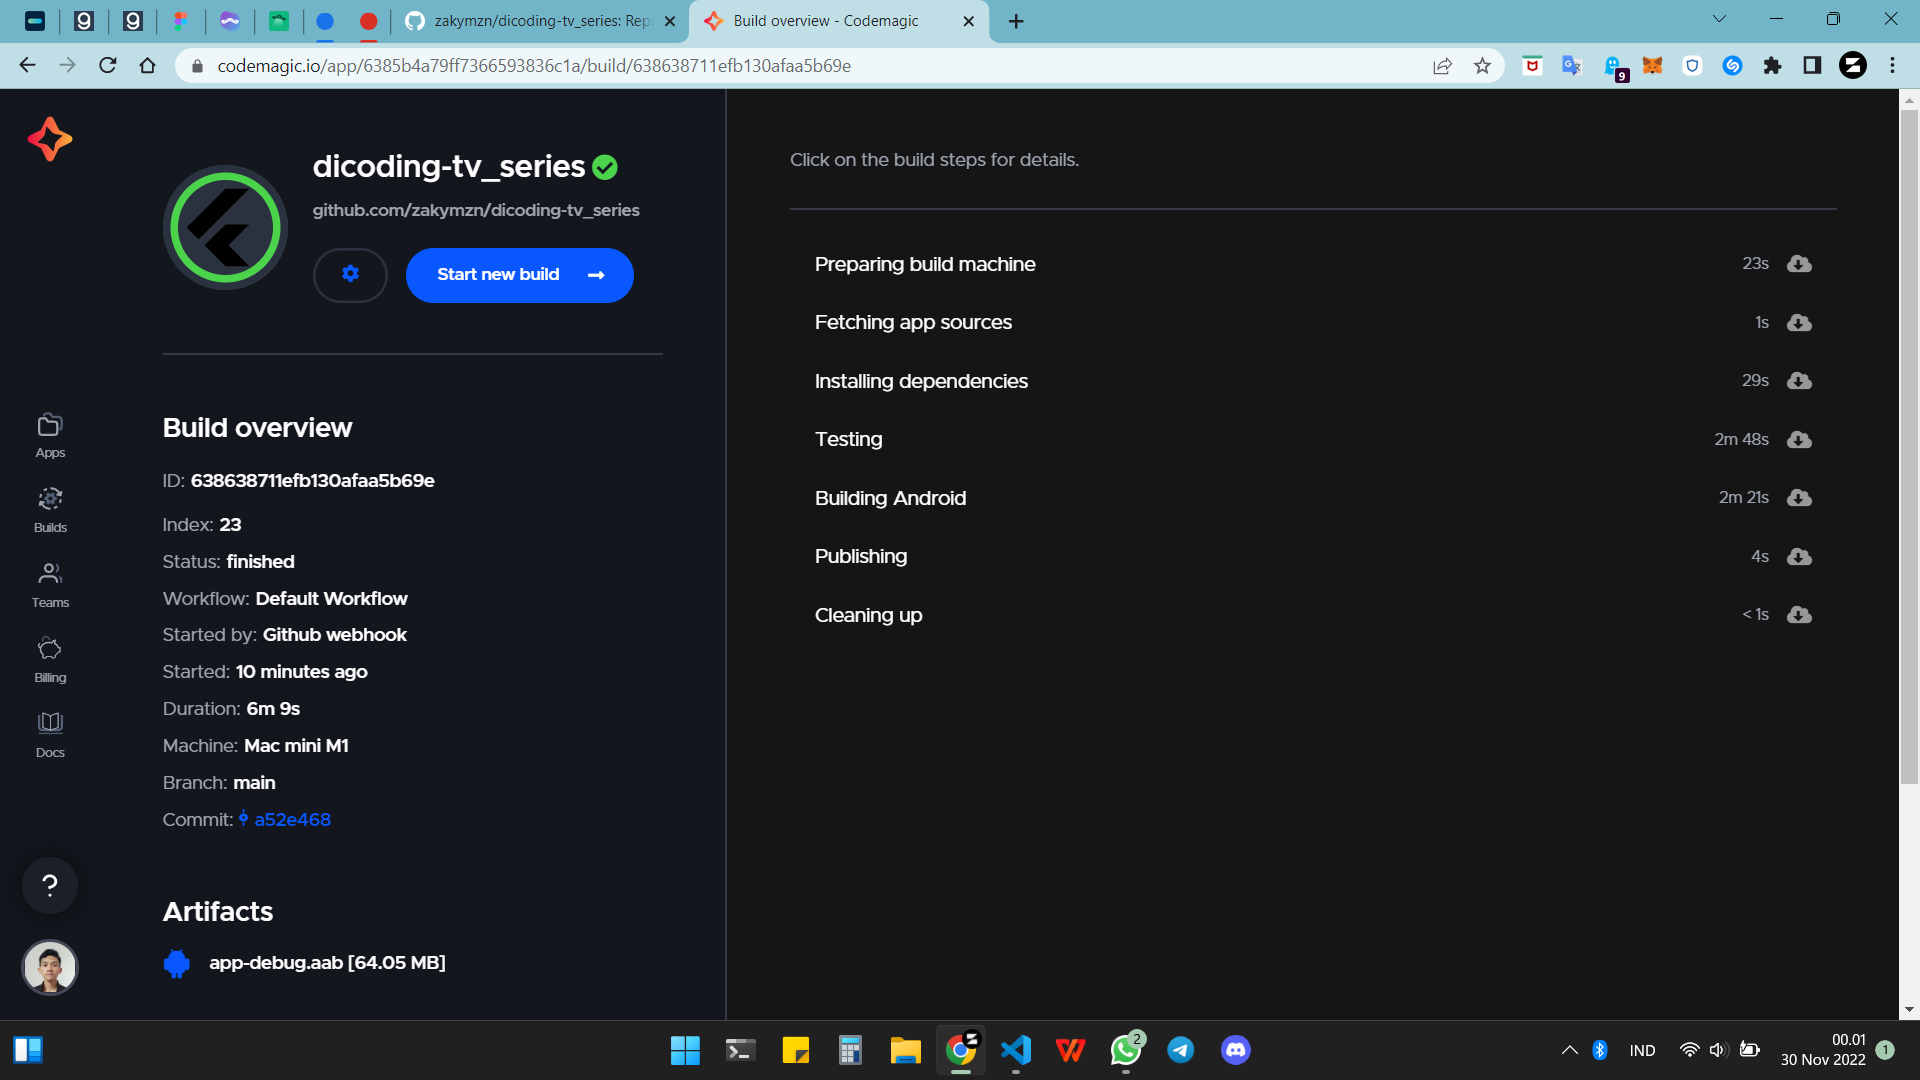
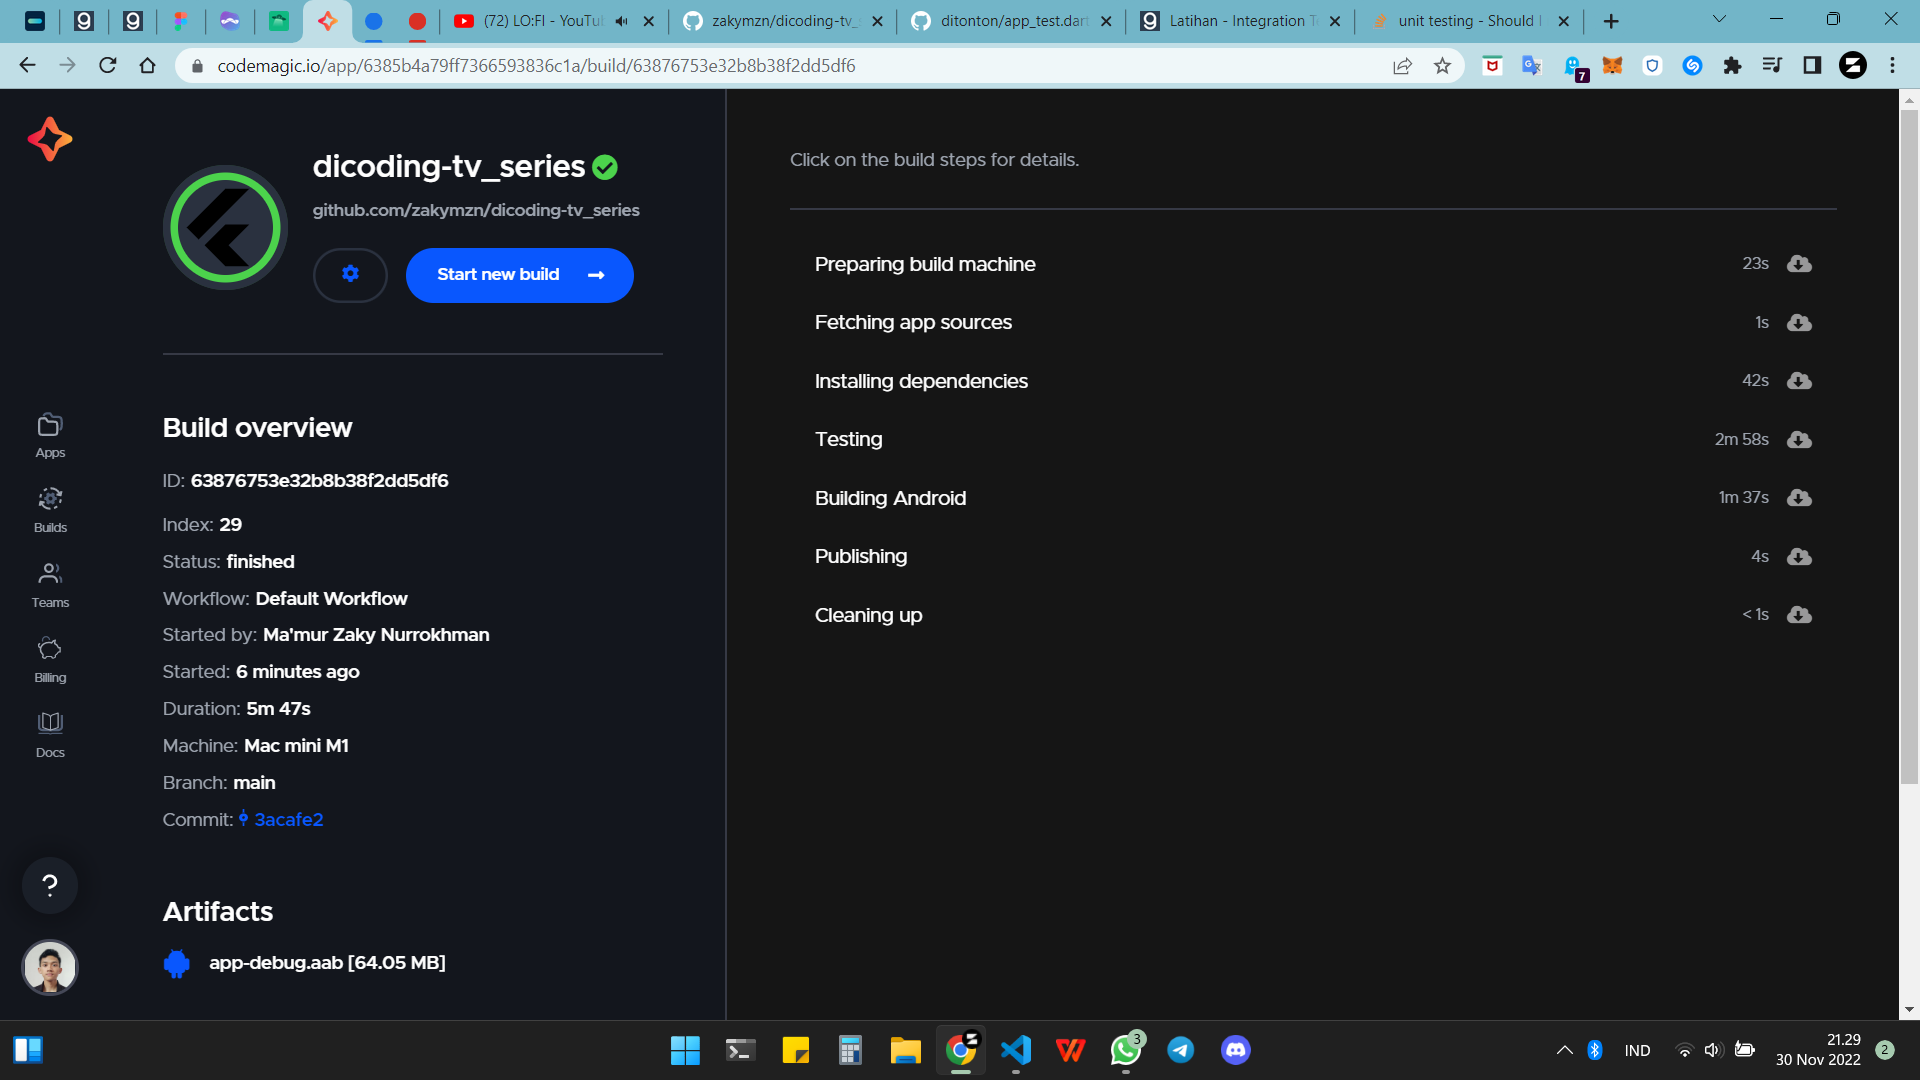
Menyempurnakan integration test dan memperbarui screenshot testing codemagic

diff --git a/integration_test/app_test.dart b/integration_test/app_test.dart
@@ -1,6 +1,11 @@
 import 'package:flutter/material.dart';
 import 'package:flutter_test/flutter_test.dart';
 import 'package:integration_test/integration_test.dart';
+import 'package:movies/movies.dart';
+import 'package:tv_series/tv_series.dart';
+import 'package:search/search.dart';
+import 'package:about/about.dart';
+import 'package:core/core.dart';
 import 'package:ditonton/main.dart' as app;
 
 void main() {
@@ -10,31 +15,31 @@ void main() {
       final binding = IntegrationTestWidgetsFlutterBinding.ensureInitialized();
 
       testWidgets(
-        'movies test',
+        'start',
         (widgetTester) async {
           await binding.traceAction(() async {
-            int movieIndex = 10;
-            int recommendationIndex = 10;
-            final addWatchlistButtonIcon = find.byIcon(Icons.add);
-            final checkWatchlistButtonIcon = find.byIcon(Icons.check);
-            final backButton = find.byIcon(Icons.arrow_back);
-            final movieFinder = find.byKey(Key('movie_$movieIndex'));
-            final recommendationFinder =
-                find.byKey(ValueKey('recommendation_$recommendationIndex'));
-            final scrollFinder = find.byType(Scrollable);
-            final listFinder = find.byType(ListView);
+            int movieIndex = 1;
+            int recommendationIndex = 1;
+            int seasonIndex = 0;
+            int episodeIndex = 0;
+            int tvIndex = 1;
 
             app.main();
             await widgetTester.pumpAndSettle();
 
             await widgetTester.tap(find.byKey(Key('search_movie')));
             await widgetTester.pumpAndSettle();
+            expect(find.byType(MovieSearchPage), findsOneWidget);
             expect(find.byType(TextField), findsOneWidget);
 
-            await widgetTester.enterText(find.byType(TextField), "spiderman");
+            await widgetTester.enterText(find.byType(TextField), "naruto");
             await widgetTester.testTextInput
                 .receiveAction(TextInputAction.done);
             await widgetTester.pumpAndSettle();
+
+            final movieFinder = find.byKey(Key('movie_$movieIndex'));
+
+            final scrollFinder = find.byType(Scrollable);
 
             await widgetTester.scrollUntilVisible(movieFinder, 500,
                 scrollable: scrollFinder.last);
@@ -42,15 +47,20 @@ void main() {
             await widgetTester.tap(movieFinder);
             await widgetTester.pumpAndSettle();
 
-            expect(backButton, findsOneWidget);
-            await widgetTester.tap(backButton);
-            await widgetTester.pumpAndSettle();
+            final backButton = find.byIcon(Icons.arrow_back);
 
             expect(backButton, findsOneWidget);
             await widgetTester.tap(backButton);
             await widgetTester.pumpAndSettle();
 
-            await widgetTester.tap(find.byKey(Key('now_playing_movies')));
+            expect(backButton, findsOneWidget);
+            await widgetTester.tap(backButton);
+            await widgetTester.pumpAndSettle();
+
+            await widgetTester.scrollUntilVisible(
+                find.byKey(Key('top_rated_movies')), 500,
+                scrollable: scrollFinder.first);
+            await widgetTester.tap(find.byKey(Key('top_rated_movies')));
             await widgetTester.pumpAndSettle();
 
             await widgetTester.scrollUntilVisible(movieFinder, 500,
@@ -58,6 +68,108 @@ void main() {
             expect(movieFinder, findsOneWidget);
             await widgetTester.tap(movieFinder);
             await widgetTester.pumpAndSettle();
+
+            final addWatchlistButtonIcon = find.byIcon(Icons.add);
+
+            expect(addWatchlistButtonIcon, findsOneWidget);
+            await widgetTester.tap(addWatchlistButtonIcon);
+            await widgetTester.pump(Duration(seconds: 1));
+            expect(find.byType(SnackBar), findsOneWidget);
+            expect(find.text('Added to Watchlist'), findsOneWidget);
+
+            await widgetTester.pump(Duration(seconds: 5));
+
+            final checkWatchlistButtonIcon = find.byIcon(Icons.check);
+
+            expect(checkWatchlistButtonIcon, findsOneWidget);
+            await widgetTester.tap(checkWatchlistButtonIcon);
+            await widgetTester.pump(Duration(seconds: 1));
+            expect(find.byType(SnackBar), findsOneWidget);
+            expect(find.text('Removed from Watchlist'), findsOneWidget);
+
+            final listFinder = find.byType(ListView);
+
+            await widgetTester.scrollUntilVisible(listFinder, 500,
+                scrollable: scrollFinder.first);
+            expect(listFinder, findsOneWidget);
+
+            final recommendationFinder =
+                find.byKey(ValueKey('recommendation_$recommendationIndex'));
+
+            await widgetTester.scrollUntilVisible(recommendationFinder, 500,
+                scrollable: scrollFinder.last);
+            expect(recommendationFinder, findsOneWidget);
+            await widgetTester.tap(recommendationFinder);
+            await widgetTester.pumpAndSettle();
+
+            expect(backButton, findsOneWidget);
+            await widgetTester.tap(backButton);
+            await widgetTester.pumpAndSettle();
+
+            expect(backButton, findsOneWidget);
+            await widgetTester.tap(backButton);
+            await widgetTester.pumpAndSettle();
+
+            expect(find.byType(HomeMoviePage), findsOneWidget);
+
+            final ScaffoldState movieScaffoldState =
+                widgetTester.firstState(find.byType(Scaffold));
+
+            movieScaffoldState.openDrawer();
+            await widgetTester.pumpAndSettle();
+
+            final movieIconFinder = find.byIcon(Icons.movie);
+            final tvIconFinder = find.byIcon(Icons.tv);
+
+            expect(movieIconFinder, findsOneWidget);
+            expect(tvIconFinder, findsOneWidget);
+
+            await widgetTester.tap(tvIconFinder);
+            await widgetTester.pumpAndSettle();
+
+            expect(find.byType(HomeTvPage), findsOneWidget);
+
+            await widgetTester.tap(find.byKey(ValueKey('search_tv')));
+            await widgetTester.pumpAndSettle();
+            expect(find.byType(TvSearchPage), findsOneWidget);
+            expect(find.byType(TextField), findsOneWidget);
+
+            await widgetTester.enterText(find.byType(TextField), "spiderman");
+            await widgetTester.testTextInput
+                .receiveAction(TextInputAction.done);
+            await widgetTester.pumpAndSettle();
+
+            final tvFinder = find.byKey(ValueKey('tv_$tvIndex'));
+
+            await widgetTester.scrollUntilVisible(tvFinder, 500,
+                scrollable: scrollFinder.last);
+            expect(tvFinder, findsOneWidget);
+            await widgetTester.tap(tvFinder);
+            await widgetTester.pumpAndSettle();
+
+            expect(backButton, findsOneWidget);
+            await widgetTester.tap(backButton);
+            await widgetTester.pumpAndSettle();
+
+            expect(backButton, findsOneWidget);
+            await widgetTester.tap(backButton);
+            await widgetTester.pumpAndSettle();
+
+            await widgetTester.scrollUntilVisible(
+                find.byKey(Key('top_rated_tv')), 500,
+                scrollable: scrollFinder.first);
+            await widgetTester.tap(find.byKey(Key('top_rated_tv')));
+            await widgetTester.pumpAndSettle();
+
+            expect(find.byType(TopRatedTvPage), findsOneWidget);
+
+            await widgetTester.scrollUntilVisible(tvFinder, 500,
+                scrollable: scrollFinder);
+            expect(tvFinder, findsOneWidget);
+            await widgetTester.tap(tvFinder);
+            await widgetTester.pumpAndSettle();
+
+            expect(find.byType(TvDetailPage), findsOneWidget);
 
             expect(addWatchlistButtonIcon, findsOneWidget);
             await widgetTester.tap(addWatchlistButtonIcon);
@@ -73,23 +185,84 @@ void main() {
             expect(find.byType(SnackBar), findsOneWidget);
             expect(find.text('Removed from Watchlist'), findsOneWidget);
 
-            await widgetTester.scrollUntilVisible(listFinder, 500,
-                scrollable: scrollFinder.first);
-            expect(listFinder, findsOneWidget);
-
             await widgetTester.scrollUntilVisible(recommendationFinder, 500,
                 scrollable: scrollFinder.last);
             expect(recommendationFinder, findsOneWidget);
             await widgetTester.tap(recommendationFinder);
             await widgetTester.pumpAndSettle();
 
-            expect(backButton, findsOneWidget);
-            await widgetTester.tap(backButton);
+            final seasonFinder = find.byKey(ValueKey('season_$seasonIndex'));
+
+            await widgetTester.scrollUntilVisible(seasonFinder, 500,
+                scrollable: scrollFinder.at(1));
+            expect(seasonFinder, findsOneWidget);
+            await widgetTester.tap(seasonFinder);
             await widgetTester.pumpAndSettle();
+
+            expect(find.byType(TvSeasonDetailPage), findsOneWidget);
+
+            final episodeFinder =
+                find.byKey(ValueKey('tv_episode_$episodeIndex'));
+
+            await widgetTester.scrollUntilVisible(episodeFinder, 500,
+                scrollable: scrollFinder.at(1));
+            expect(episodeFinder, findsOneWidget);
+            await widgetTester.tap(episodeFinder);
+            await widgetTester.pumpAndSettle();
+
+            expect(find.byType(TvEpisodeDetailPage), findsOneWidget);
 
             expect(backButton, findsOneWidget);
             await widgetTester.tap(backButton);
             await widgetTester.pumpAndSettle();
+
+            expect(find.byType(TvSeasonDetailPage), findsOneWidget);
+            await widgetTester.tap(backButton);
+            await widgetTester.pumpAndSettle();
+
+            expect(find.byType(TvDetailPage), findsOneWidget);
+            await widgetTester.tap(backButton);
+            await widgetTester.pumpAndSettle();
+
+            expect(find.byType(TopRatedTvPage), findsOneWidget);
+            await widgetTester.tap(backButton);
+            await widgetTester.pumpAndSettle();
+
+            expect(find.byType(HomeTvPage), findsOneWidget);
+
+            final ScaffoldState tvScaffoldState =
+                widgetTester.firstState(find.byType(Scaffold));
+
+            tvScaffoldState.openDrawer();
+            await widgetTester.pumpAndSettle();
+
+            final watchlistIconFinder = find.byIcon(Icons.save_alt);
+
+            expect(watchlistIconFinder, findsOneWidget);
+            await widgetTester.tap(watchlistIconFinder);
+            await widgetTester.pumpAndSettle();
+
+            expect(find.byType(WatchListPage), findsOneWidget);
+            expect(backButton, findsOneWidget);
+            await widgetTester.tap(backButton);
+            await widgetTester.pumpAndSettle();
+
+            final aboutIconFinder = find.byIcon(Icons.info_outline);
+
+            expect(aboutIconFinder, findsOneWidget);
+            await widgetTester.tap(aboutIconFinder);
+            await widgetTester.pumpAndSettle();
+
+            expect(find.byType(AboutPage), findsOneWidget);
+            expect(backButton, findsOneWidget);
+            await widgetTester.tap(backButton);
+            await widgetTester.pumpAndSettle();
+
+            expect(movieIconFinder, findsOneWidget);
+            await widgetTester.tap(movieIconFinder);
+            await widgetTester.pumpAndSettle();
+
+            expect(find.byType(HomeMoviePage), findsOneWidget);
           });
         },
       );

diff --git a/modules/tv_series/lib/presentation/pages/home_tv_page.dart b/modules/tv_series/lib/presentation/pages/home_tv_page.dart
@@ -70,6 +70,7 @@ class _HomeTvPageState extends State<HomeTvPage> {
         title: const Text('Ditonton'),
         actions: [
           IconButton(
+            key: Key('search_tv'),
             onPressed: () {
               Navigator.pushNamed(context, searchTvRoute);
             },
